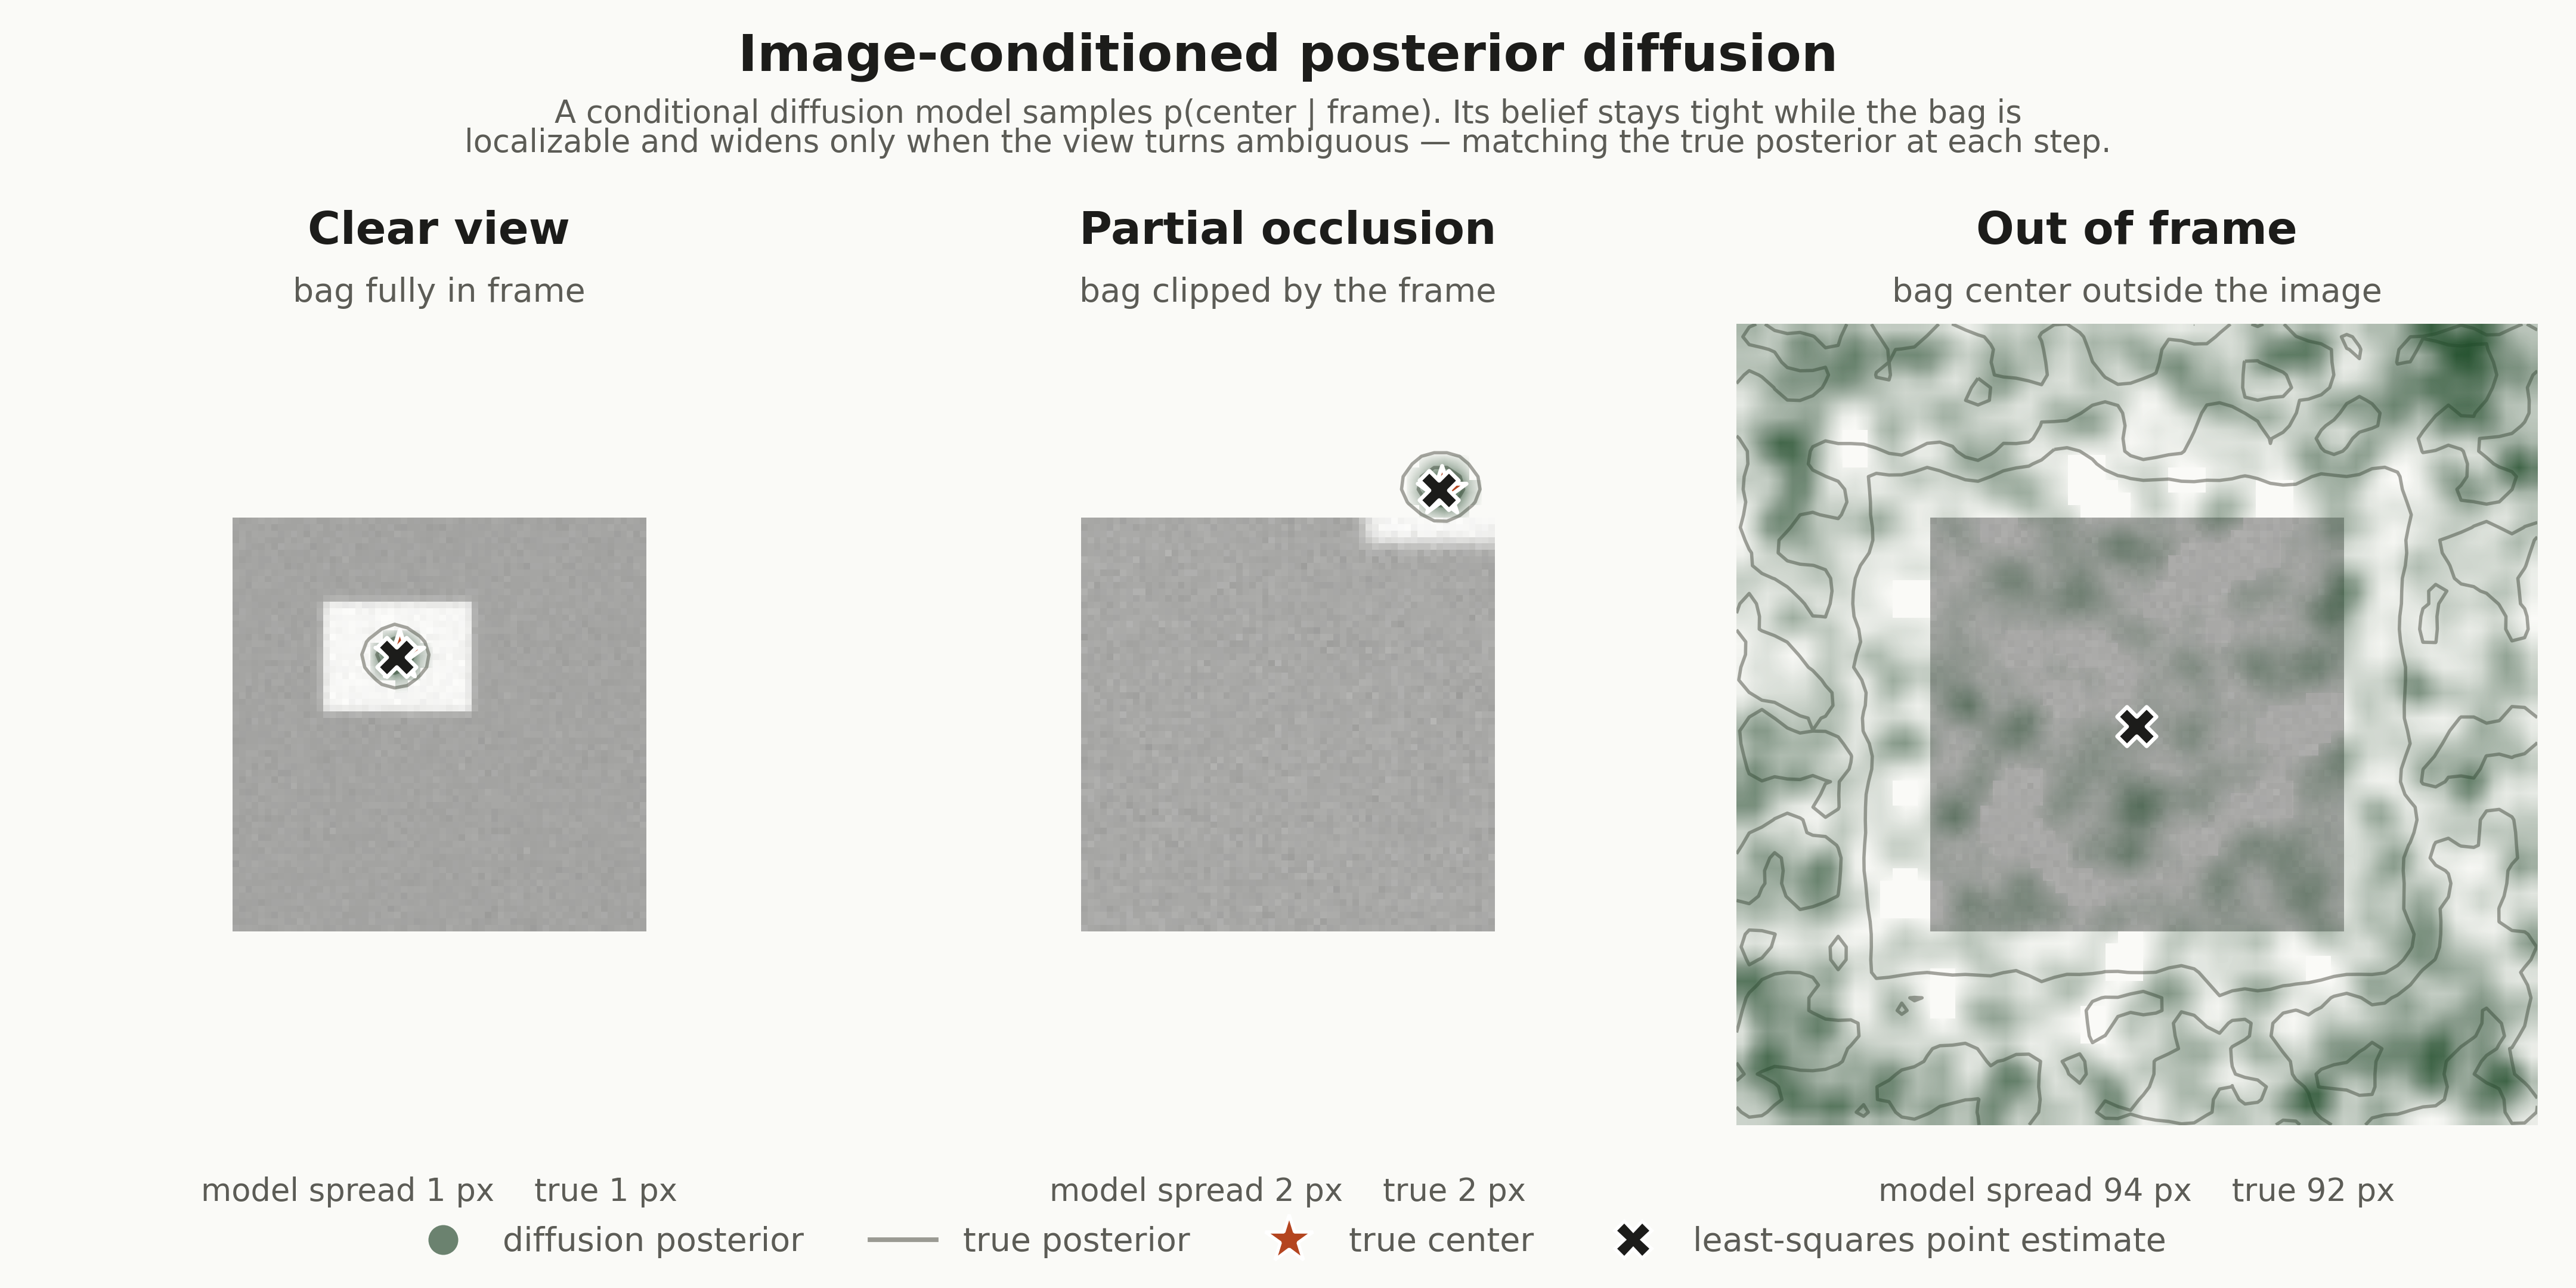
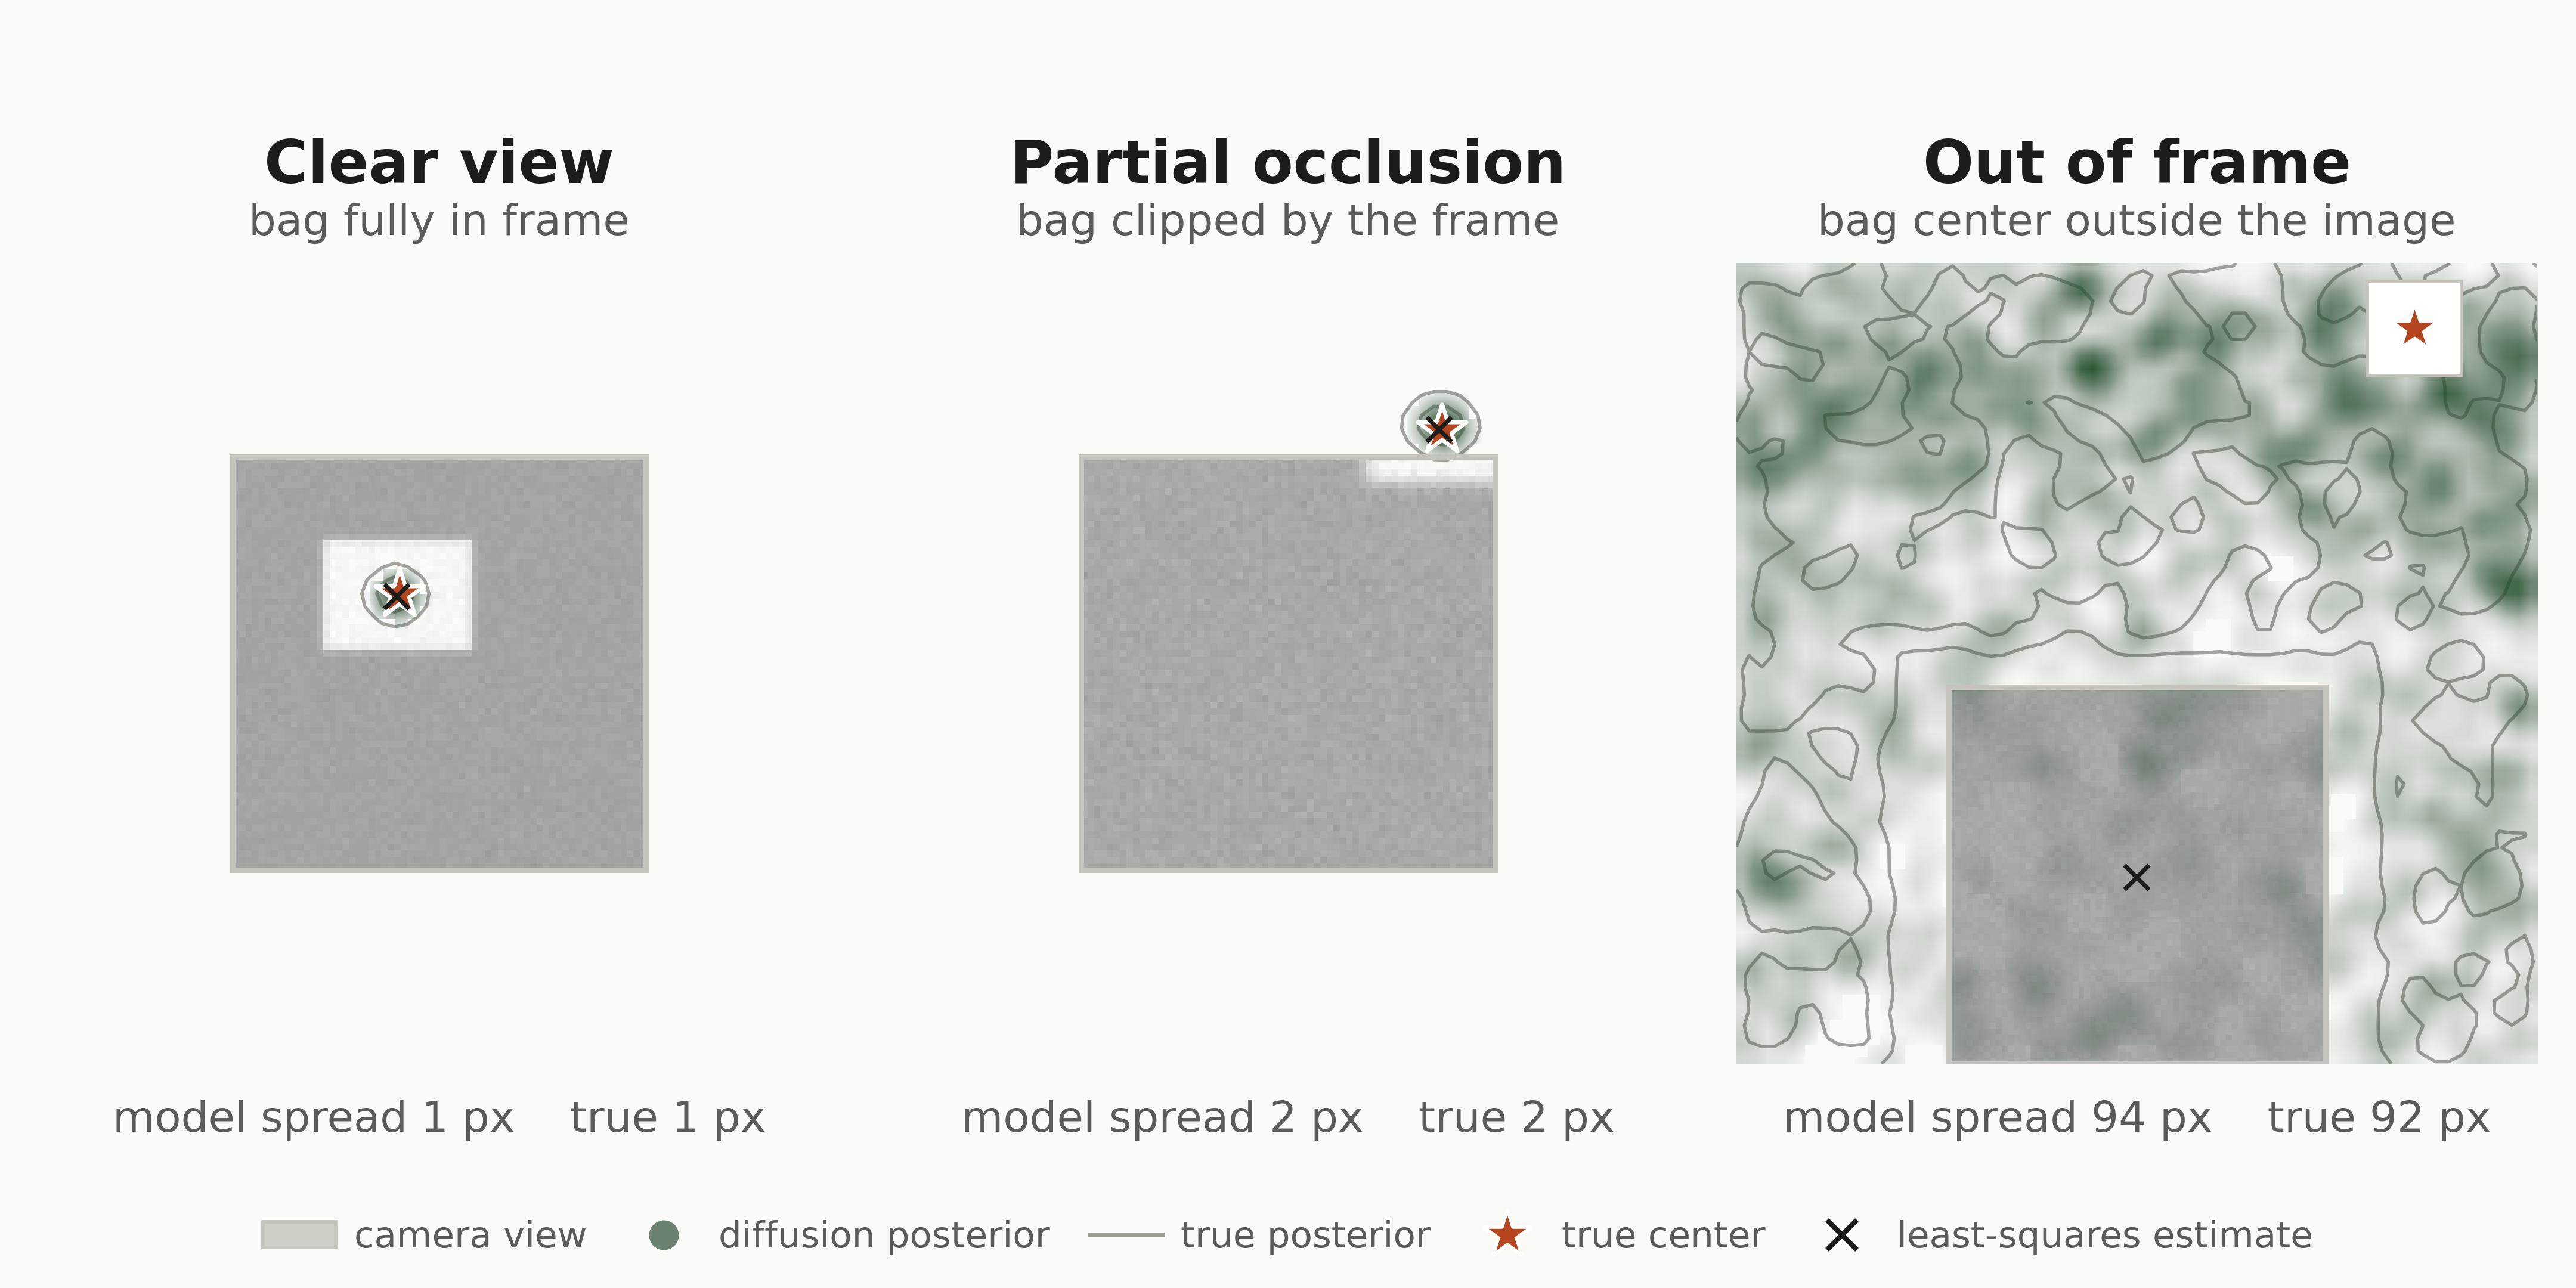
updated copy and images

diff --git a/index.html b/index.html
@@ -3,7 +3,7 @@
 <head>
   <meta charset="UTF-8">
   <meta name="viewport" content="width=device-width, initial-scale=1.0">
-  <title>Kaj Hansteen Izora — Robotics & Embodied AI Researcher</title>
+  <title>Kaj Hansteen Izora · Robotics & Embodied AI Researcher</title>
   <meta name="description" content="Personal portfolio and research website of Kaj Hansteen Izora, a robotics researcher focusing on uncertainty-aware embodied intelligence, simulation-based inference, and robot perception.">
   
   <!-- Font Imports -->
@@ -24,7 +24,7 @@
         <div class="hero-text">
           <h1>Kaj Hansteen Izora</h1>
           <p class="hero-tagline">
-            Robotics researcher working on uncertainty-aware embodied intelligence — perception, manipulation, and inference systems for robots that maintain calibrated beliefs and transfer reliably from simulation to the real world.
+            Robotics researcher working on uncertainty-aware embodied intelligence: perception, manipulation, and inference systems for robots that maintain calibrated beliefs and transfer reliably from simulation to the real world.
           </p>
           <div class="link-row">
             <a href="https://github.com/KajIzora" target="_blank" rel="noopener noreferrer" id="hero-github">GitHub</a>
@@ -83,7 +83,7 @@
     <div class="container-wide">
       <h2>Research</h2>
       <p>
-        The common bet across all of this: simulation is where intelligent behavior can be grown and studied — from low-level pose posteriors to multi-agent social reasoning.
+        The common bet across all of this: simulation is where intelligent behavior can be grown and studied, from low-level pose posteriors to multi-agent social reasoning.
       </p>
       <div class="research-grid">
 
@@ -134,7 +134,7 @@
             </div>
           </div>
           <p class="project-desc">
-            A full perception–estimation–policy–control loop on the Unitree G1: locate a grocery bag, navigate to it, grasp it, load it into a car, and return — all driven by calibrated state estimates that update with live feedback during each action. 97% task success across 100+ live conference trials.
+            A full perception–estimation–policy–control loop on the Unitree G1: locate a grocery bag, navigate to it, grasp it, load it into a car, and return, all driven by calibrated state estimates that update with live feedback during each action. 97% task success across 100+ trials.
           </p>
         </div>
 
@@ -145,7 +145,7 @@
             <iframe src="secret-hitler-exchange/index.html" title="Animated exchange: an LLM agent's public speech diverging from its private reasoning, with group trust eroding in real time" loading="lazy" style="width:100%; height:100%; border:0; display:block;" scrolling="no"></iframe>
           </div>
           <p class="project-desc">
-            A multi-agent simulation with a dual-layer architecture separating private chain-of-thought from public speech — measuring the gap between what agents intend and what they say. Used to study emergent coordination, deception, and theory-of-mind reasoning in LLMs.
+            A multi-agent simulation with a dual-layer architecture separating private chain-of-thought from public speech, measuring the gap between what agents intend and what they say. Used to study emergent coordination, deception, and theory-of-mind reasoning in LLMs.
           </p>
           <div class="project-links link-row">
             <a href="https://github.com/KajIzora/SecretHitler-LLM-Simulation-Code" target="_blank" rel="noopener noreferrer">GitHub</a>
@@ -158,10 +158,10 @@
         <div class="project-card">
           <h3 class="project-title">Image-conditioned posterior diffusion</h3>
           <div class="project-visual">
-            <img src="assets2/card4-posterior-triptych.png" alt="Three frames spanning a clear view, partial occlusion, and the bag out of frame. A conditional diffusion model's samples (green) over the bag center track the true Monte-Carlo posterior (gray) — tight blob, then elongated, then a ring of hypotheses — while a least-squares point estimate collapses to a single guess that lands where the bag is not." loading="lazy" style="object-fit: contain; background: var(--bg-color);">
+            <img src="assets2/card4-posterior-triptych.png" alt="Three frames spanning a clear view, partial occlusion, and the bag out of frame. A conditional diffusion model's samples (green) over the bag center track the true Monte-Carlo posterior (gray): tight blob, still tight under partial occlusion, then a broad ring once the bag leaves the frame. A least-squares point estimate collapses to a single guess that lands where the bag is not." loading="lazy" style="object-fit: contain; background: var(--bg-color);">
           </div>
           <p class="project-desc">
-            A conditional diffusion model trained to sample p(center&nbsp;|&nbsp;frame) over the bag's location from a single camera image. As the bag is occluded or leaves the view, its belief widens from a tight mode to a ring of hypotheses — matching the true Monte-Carlo posterior to within about a pixel of spread, where a least-squares estimate collapses to one impossible point. Calibration verified with simulation-based calibration.
+            A conditional diffusion model trained to sample p(center&nbsp;|&nbsp;frame) over the bag's location from a single camera image. Its belief stays a tight mode while the image pins the bag down, holding even under partial occlusion. That belief fans out into a ring of hypotheses once the bag's center leaves the frame, matching the true Monte-Carlo posterior to within about a pixel of spread. A least-squares estimate, by contrast, collapses to one impossible point. Calibration verified with simulation-based calibration.
           </p>
           <div class="project-links link-row">
             <a href="https://github.com/KajIzora/posterior-diffusion" target="_blank" rel="noopener noreferrer">GitHub</a>
@@ -175,7 +175,7 @@
             <img src="assets2/card5-flow-matching-vf.gif" alt="Animated vector field showing continuous normalizing flow density transport" loading="lazy">
           </div>
           <p class="project-desc">
-            Continuous normalizing flows and flow matching built from first principles — hand-coded vector fields, ODE integration, and flow-matching objectives. The same objective behind the action head in Ai2's MolmoBot.
+            Continuous normalizing flows and flow matching built from first principles: hand-coded vector fields, ODE integration, and flow-matching objectives.
           </p>
           <div class="project-links link-row">
             <a href="https://github.com/KajIzora/flow-matching-scratch" target="_blank" rel="noopener noreferrer">GitHub</a>

diff --git a/resume.html b/resume.html
@@ -3,7 +3,7 @@
 <head>
   <meta charset="UTF-8">
   <meta name="viewport" content="width=device-width, initial-scale=1.0">
-  <title>Resume — Kaj Hansteen Izora</title>
+  <title>Resume · Kaj Hansteen Izora</title>
   <meta name="description" content="Resume of Kaj Hansteen Izora, robotics researcher focusing on uncertainty-aware embodied intelligence.">
 
   <link rel="preconnect" href="https://fonts.googleapis.com">